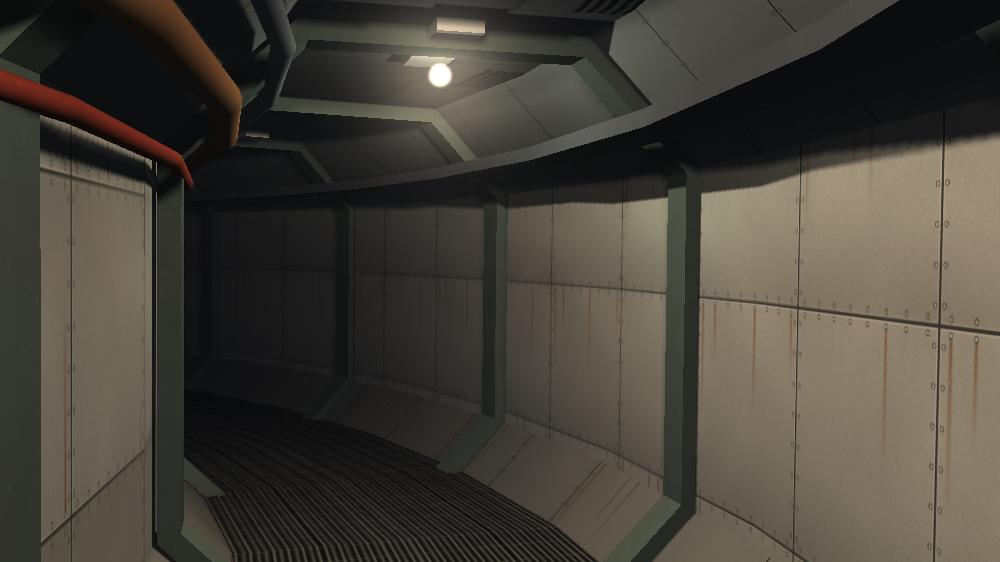
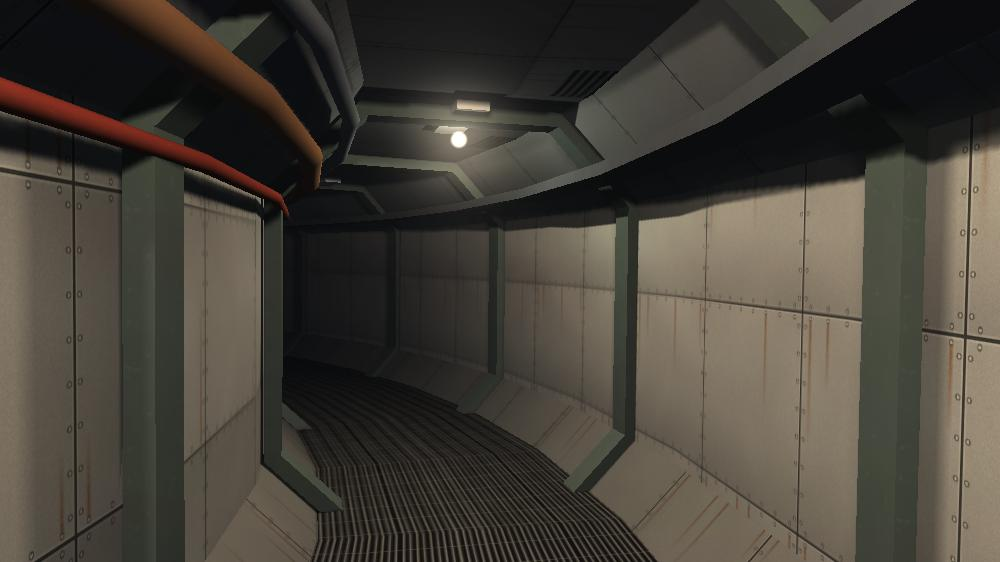
Tilt the desks of the consoles towards the operator, widen and choose the field of view, fix the z-fighting of the screens
The desks and their buttons were tilted towards the screen (wrong sign
of the rotation around Y). The field of view is now 72 degrees by
default, with presets in the Camera menu and the + / - keys (2 degrees,
30 to 120), kept when the window is resized; it moves the view plane
(Perspective.setDist()). The screens were in the plane of their frame or
case: they now stand 1 cm in front.
Test of the field of view, documentation images regenerated,
STARSHIP_INTERIOR.md and README updated.

diff --git a/aventura-demos/src/main/java/com/aventura/demo/ship/StarshipInterior.java b/aventura-demos/src/main/java/com/aventura/demo/ship/StarshipInterior.java
@@ -124,8 +124,8 @@ import com.aventura.view.SwingView;
  *
  * <h2>Menus</h2>
  * <ul>
- * <li>Camera: the camera, pause of the visit, reset, and the statistics (key I), with the rendering times of the last
- *     lap of the visit and the lights switched on.</li>
+ * <li>Camera: the camera, pause of the visit, reset, the field of view (presets, or keys + and -), and the statistics
+ *     (key I), with the rendering times of the last lap of the visit and the lights switched on.</li>
  * <li>Lights: the size of the light budget (1 to 6 lights), or all the lights on; the halo of the lights; the north
  *     door (key D).</li>
  * <li>Rendering: the rendering type.</li>
@@ -149,10 +149,22 @@ public class StarshipInterior {
 	/** The haze: the far end of a long corridor fades into the dark (visibility in meters, see TempleRuins). */
 	static final float HAZE_VISIBILITY = 45f;
 
-	/** Near and far planes of the view frustum. The near plane is close: in a doorway, the frame is 0.5 m away. */
-	static final float NEAR_DISTANCE = 0.05f;
+	/**
+	 * The view plane: VIEW_WIDTH wide at IMAGE_WIDTH pixels. With a frustum, it is also the near plane, close to the eye:
+	 * in a doorway, the frame is 0.5 m away. Its distance to the eye sets the field of view (see setFieldOfView()).
+	 */
+	static final float VIEW_WIDTH = 0.05f;
 	static final float FAR_DISTANCE = 300f;
 	static final int IMAGE_WIDTH = 1000;
+
+	/**
+	 * Horizontal field of view, in degrees: rather wide, as for a first person view (TempleRuins: 53 degrees). The Camera
+	 * menu offers the presets; the + and - keys change it by FIELD_OF_VIEW_STEP, between the minimum and the maximum.
+	 */
+	static final float DEFAULT_FIELD_OF_VIEW = 72;
+	static final float[] FIELD_OF_VIEW_PRESETS = { 50, 60, 72, 85, 100 };
+	static final float FIELD_OF_VIEW_STEP = 2;
+	static final float MIN_FIELD_OF_VIEW = 30, MAX_FIELD_OF_VIEW = 120;
 
 	/** Where the walk starts: in the south corridor, near the south junction, looking east. */
 	static final Vector4 WALK_START = new Vector4(3f, -Ship.LOOP_HALF_WIDTH, ShipTour.EYE_HEIGHT, 1);
@@ -227,6 +239,9 @@ public class StarshipInterior {
 	int lightsOn;
 
 	CameraMode cameraMode = CameraMode.WALK;
+	float fieldOfView = DEFAULT_FIELD_OF_VIEW;
+	Map<Float, JRadioButtonMenuItem> fieldOfViewItems = new java.util.LinkedHashMap<Float, JRadioButtonMenuItem>();
+	ButtonGroup fieldOfViewGroup = new ButtonGroup();
 	Vector4 lookTarget; // The point the camera looks at: the light budget prefers the lights in front of the camera
 
 	/** Walk: position of the eye, and direction of the look (yaw around Z from the X axis, pitch above the horizontal). */
@@ -347,15 +362,18 @@ public class StarshipInterior {
 	// ***** 4. The contexts
 	// ****************************************************************************************************************
 
-	/** A perspective projection, a horizontal field of view of 53 degrees, an image IMAGE_WIDTH pixels wide (see TempleRuins). */
+	/**
+	 * A perspective projection, a horizontal field of view of DEFAULT_FIELD_OF_VIEW, an image IMAGE_WIDTH pixels wide
+	 * (see TempleRuins).
+	 */
 	public static PerspectiveContext createPerspectiveContext() {
 		return createPerspectiveContext(IMAGE_WIDTH);
 	}
 
 	public static PerspectiveContext createPerspectiveContext(int imageWidth) {
-		float viewWidth = NEAR_DISTANCE, viewHeight = NEAR_DISTANCE * 9 / 16;
-		PerspectiveContext pContext = new PerspectiveContext(viewWidth, viewHeight, NEAR_DISTANCE, FAR_DISTANCE, PerspectiveType.FRUSTUM,
-				Math.round(imageWidth / viewWidth));
+		float viewWidth = VIEW_WIDTH, viewHeight = VIEW_WIDTH * 9 / 16;
+		PerspectiveContext pContext = new PerspectiveContext(viewWidth, viewHeight, viewDistance(viewWidth, DEFAULT_FIELD_OF_VIEW), FAR_DISTANCE,
+				PerspectiveType.FRUSTUM, Math.round(imageWidth / viewWidth));
 		pContext.setResizeMode(PerspectiveContext.ResizeMode.KEEP_SCALE);
 		return pContext;
 	}
@@ -369,6 +387,40 @@ public class StarshipInterior {
 		rContext.setAtmosphere(true);
 		rContext.setLightGlow(true);
 		return rContext;
+	}
+
+	/**
+	 * The distance from the eye at which a view plane of the given width sees the given horizontal field of view: the
+	 * plane and the eye make an isosceles triangle, of half-angle fieldOfView / 2, so tan(fieldOfView / 2) = (width / 2)
+	 * / distance. The nearer the plane, the wider the view.
+	 */
+	static float viewDistance(float viewWidth, float fieldOfViewDegrees) {
+		return viewWidth / 2 / (float) Math.tan(Math.toRadians(fieldOfViewDegrees) / 2);
+	}
+
+	/**
+	 * Changes the field of view: the view plane keeps its width (its pixels, see PerspectiveContext.ResizeMode.KEEP_SCALE),
+	 * and is moved nearer to the eye or farther from it (Perspective.setDist()). The projection follows.
+	 */
+	public void setFieldOfView(float degrees) {
+		fieldOfView = clamp(degrees, MIN_FIELD_OF_VIEW, MAX_FIELD_OF_VIEW);
+		applyFieldOfView();
+	}
+
+	public float getFieldOfView() {
+		return fieldOfView;
+	}
+
+	/**
+	 * Places the view plane for the current field of view. Called before each image: when the window is resized, the
+	 * width of the view plane changes with it (the RenderEngine resizes the PerspectiveContext at the start of the image),
+	 * and the field of view is kept by moving the plane.
+	 */
+	private void applyFieldOfView() {
+		int pixels = guiView != null ? guiView.getViewWidth() : pContext.getPixelWidth();
+		float viewWidth = (float) pixels / pContext.getPPU(); // The width the view plane will have for this image
+		float distance = viewDistance(viewWidth, fieldOfView);
+		if (distance != pContext.getPerspective().getDist()) pContext.getPerspective().setDist(distance);
 	}
 
 	// ****************************************************************************************************************
@@ -461,10 +513,19 @@ public class StarshipInterior {
 		bindKey(root, KeyEvent.VK_DOWN, "backward", () -> dollyCamera(-1));
 		bindKey(root, KeyEvent.VK_LEFT, "turnLeft", () -> turnCamera(-0.12f, 0));
 		bindKey(root, KeyEvent.VK_RIGHT, "turnRight", () -> turnCamera(0.12f, 0));
+		// The field of view: + and -, typed (whatever the keyboard layout) or on the numeric keypad
+		bindKey(root, KeyStroke.getKeyStroke('+'), "wider", () -> changeFieldOfView(fieldOfView + FIELD_OF_VIEW_STEP));
+		bindKey(root, KeyStroke.getKeyStroke('-'), "narrower", () -> changeFieldOfView(fieldOfView - FIELD_OF_VIEW_STEP));
+		bindKey(root, KeyEvent.VK_ADD, "widerKeypad", () -> changeFieldOfView(fieldOfView + FIELD_OF_VIEW_STEP));
+		bindKey(root, KeyEvent.VK_SUBTRACT, "narrowerKeypad", () -> changeFieldOfView(fieldOfView - FIELD_OF_VIEW_STEP));
 	}
 
 	private static void bindKey(JComponent component, int keyCode, String name, Runnable action) {
-		component.getInputMap(JComponent.WHEN_IN_FOCUSED_WINDOW).put(KeyStroke.getKeyStroke(keyCode, 0), name);
+		bindKey(component, KeyStroke.getKeyStroke(keyCode, 0), name, action);
+	}
+
+	private static void bindKey(JComponent component, KeyStroke key, String name, Runnable action) {
+		component.getInputMap(JComponent.WHEN_IN_FOCUSED_WINDOW).put(key, name);
 		component.getActionMap().put(name, new AbstractAction() {
 			@Override
 			public void actionPerformed(ActionEvent e) {
@@ -504,6 +565,7 @@ public class StarshipInterior {
 	 * or when asked by the Lights menu). Every rendering of the application goes through here.
 	 */
 	void render() {
+		applyFieldOfView();
 		updateLights();
 		// The haze is for the long corridors: from above, 70 m away, it would hide the whole ship
 		rContext.setAtmosphere(atmosphere.isHaze() && cameraMode != CameraMode.PLAN);
@@ -513,8 +575,8 @@ public class StarshipInterior {
 		if (frame == null) return; // Without a window (tests)
 		long millis = Math.round(lastRenderNanos / 1e6);
 		String mode = cameraMode.label + (cameraMode == CameraMode.VISIT && tourPaused ? " (paused)" : "");
-		String title = String.format(Locale.ROOT, "%s - %s - %d ms per image (%.1f per second) - %d lights on", TITLE, mode, millis,
-				1e9 / Math.max(lastRenderNanos, 1), lightsOn);
+		String title = String.format(Locale.ROOT, "%s - %s, %.0f\u00b0 - %d ms per image (%.1f per second) - %d lights on", TITLE, mode, fieldOfView,
+				millis, 1e9 / Math.max(lastRenderNanos, 1), lightsOn);
 		if (cameraMode == CameraMode.VISIT && lapCount > 0) {
 			title += String.format(Locale.ROOT, " - lap %d: %.1f ms on average", lapCount, lastLapAverage);
 		}
@@ -546,8 +608,41 @@ public class StarshipInterior {
 		addMenuItem(menu, "Pause / resume the visit", KeyStroke.getKeyStroke(KeyEvent.VK_SPACE, 0), this::pauseTour);
 		addMenuItem(menu, "Reset camera", KeyStroke.getKeyStroke(KeyEvent.VK_R, 0), this::resetCamera);
 		menu.addSeparator();
+		menu.add(createFieldOfViewMenu());
+		menu.addSeparator();
 		menu.add(statistics.createMenuItem());
 		return menu;
+	}
+
+	/**
+	 * Field of view submenu: the presets (an exclusive choice), and a wider or narrower view by FIELD_OF_VIEW_STEP (keys
+	 * + and -, on the main keyboard or the numeric keypad). A value between two presets selects none of them.
+	 */
+	private JMenu createFieldOfViewMenu() {
+		JMenu menu = new JMenu("Field of view");
+		ButtonGroup group = fieldOfViewGroup;
+		for (float preset : FIELD_OF_VIEW_PRESETS) {
+			JRadioButtonMenuItem item = new JRadioButtonMenuItem(String.format(Locale.ROOT, "%.0f\u00b0%s", preset,
+					preset == DEFAULT_FIELD_OF_VIEW ? " (default)" : preset < 60 ? " (narrow)" : preset > 90 ? " (wide)" : ""), preset == fieldOfView);
+			item.addActionListener(e -> changeFieldOfView(preset));
+			group.add(item);
+			menu.add(item);
+			fieldOfViewItems.put(preset, item);
+		}
+		menu.addSeparator();
+		addMenuItem(menu, "Wider (+)", null, () -> changeFieldOfView(fieldOfView + FIELD_OF_VIEW_STEP));
+		addMenuItem(menu, "Narrower (-)", null, () -> changeFieldOfView(fieldOfView - FIELD_OF_VIEW_STEP));
+		return menu;
+	}
+
+	/** Sets the field of view, shows it in the menu and renders. */
+	private void changeFieldOfView(float degrees) {
+		setFieldOfView(degrees);
+		// The preset matching the new value is selected, or none (a ButtonGroup can be cleared)
+		JRadioButtonMenuItem item = fieldOfViewItems.get(fieldOfView);
+		if (item != null) item.setSelected(true);
+		else fieldOfViewGroup.clearSelection();
+		render();
 	}
 
 	private void addCameraItem(JMenu menu, ButtonGroup group, CameraMode mode, int keyCode) {
@@ -937,6 +1032,15 @@ public class StarshipInterior {
 	public void showPlan() {
 		cameraMode = CameraMode.PLAN;
 		updateCamera();
+	}
+
+	/**
+	 * For the tests and DocumentationImages: renders into the given view (an ImageView, without a window), of any size.
+	 * The field of view is kept.
+	 */
+	public void setView(GUIView view) {
+		guiView = view;
+		renderer.setView(view);
 	}
 
 	/** Renders an image with the current camera (the budget switches the lights first), without a window. */

diff --git a/aventura-demos/src/main/java/com/aventura/demo/ship/Console.java b/aventura-demos/src/main/java/com/aventura/demo/ship/Console.java
@@ -78,12 +78,13 @@ public class Console extends Element {
 		cabinet.setTransformation(new Translation(new Vector3(0, 0, HEIGHT / 2)));
 		addElement(cabinet);
 
-		// The desk: a thin Box tilted around the Y axis (towards the operator), on top of the cabinet
-		float tilt = (float) Math.toRadians(-22);
+		// The desk: a thin Box tilted around the Y axis, its front edge lower, towards the operator. A rotation by a
+		// positive angle around Y turns +X towards -Z: the front edge (+X) goes down
+		float tilt = (float) Math.toRadians(22);
 		Box desk = new Box(DEPTH * 0.85f, width, 0.05f, textures.paintedMetal, "desk");
 		desk.setColor(DESK_COLOR);
 		desk.setTransformation(new Rotation(tilt, Vector3.yAxis()));
-		desk.combineTransformation(new Translation(new Vector3(0.02f, 0, HEIGHT + 0.09f)));
+		desk.combineTransformation(new Translation(new Vector3(0.02f, 0, HEIGHT + 0.12f)));
 		addElement(desk);
 
 		// The buttons: small boxes in rows on the desk, tilted with it
@@ -97,7 +98,7 @@ public class Console extends Element {
 				float x = -0.12f + r * 0.14f, y = -width / 2 + (c + 0.5f) * width / columns;
 				button.setTransformation(new Translation(new Vector3(x, y, 0.035f)));
 				button.combineTransformation(new Rotation(tilt, Vector3.yAxis()));
-				button.combineTransformation(new Translation(new Vector3(0.02f, 0, HEIGHT + 0.09f)));
+				button.combineTransformation(new Translation(new Vector3(0.02f, 0, HEIGHT + 0.12f)));
 				buttons.addElement(button);
 			}
 		}
@@ -109,11 +110,13 @@ public class Console extends Element {
 		Box back = new Box(0.06f, screenWidth + 0.06f, screenHeight + 0.06f, textures.paintedMetal, "screen case");
 		back.setColor(DESK_COLOR);
 		display.addElement(back);
-		// The Panel is seen from +X: its axes are Y (along the bottom edge: seen from the front, it goes from left to right)
+		// The Panel is seen from +X, 1 cm in front of the case (in its plane, the two would fight in the Z-buffer): its
+		// axes are Y (along the bottom edge: seen from the front, it goes from left to right)
 		// and Z, and Y x Z = X
-		Panel face = new Panel("screen", new Vector4(0.031f, -screenWidth / 2, -screenHeight / 2, 1), Vector3.yAxis(), Vector3.zAxis(),
+		Panel face = new Panel("screen", new Vector4(0.04f, -screenWidth / 2, -screenHeight / 2, 1), Vector3.yAxis(), Vector3.zAxis(),
 				screenWidth, screenHeight, null, screen, 0); // Tile 0: the texture of the screen is stretched once over it
 		display.addElement(face);
+		// Leaning back: the opposite rotation, its top (+Z) turned towards -X
 		display.setTransformation(new Rotation((float) Math.toRadians(-12), Vector3.yAxis()));
 		display.combineTransformation(new Translation(new Vector3(-DEPTH / 2 + 0.05f, 0, HEIGHT + 0.2f + screenHeight / 2)));
 		addElement(display);

diff --git a/aventura-demos/src/main/java/com/aventura/demo/ship/ControlRoom.java b/aventura-demos/src/main/java/com/aventura/demo/ship/ControlRoom.java
@@ -64,6 +64,7 @@ public class ControlRoom extends Element {
 	public static final Color BEAM_COLOR = new Color(92, 104, 96);
 	public static final Color RING_COLOR = new Color(230, 236, 255);
 	public static final Color SCREEN_FRAME_COLOR = new Color(60, 64, 68);
+	static final float SCREEN_FRAME_DEPTH = 0.04f;
 
 	protected final Vector4 center;
 	protected final List<AirlockDoor> doors = new ArrayList<AirlockDoor>();
@@ -150,12 +151,15 @@ public class ControlRoom extends Element {
 		for (int side = -1; side <= 1; side += 2) {
 			Vector3 inward = new Vector3(-side, 0, 0);
 			Vector3 u = inward.cross(Vector3.zAxis()).times(-1); // Along the wall, so that u x Z points inwards
-			Vector4 corner = at(side * (half - 0.04f), 0, z).minus(u.times(width / 2));
+			// The screen stands 1 cm in front of its frame: in the same plane as the front of the frame, the two surfaces
+			// would fight for each pixel in the Z-buffer (z-fighting), and the screen would show lines of the frame
+			Vector4 corner = at(side * (half - SCREEN_FRAME_DEPTH - 0.01f), 0, z).minus(u.times(width / 2));
 			Panel screen = new Panel("wall screen", corner, u, Vector3.zAxis(), width, height, null, side > 0 ? textures.screenRadar : textures.screenGraphs, 0);
 			group.addElement(screen);
-			Box frame = new Box(0.05f, width + 0.12f, height + 0.12f, "screen frame");
+			// The frame: a Box against the wall, SCREEN_FRAME_DEPTH thick
+			Box frame = new Box(SCREEN_FRAME_DEPTH, width + 0.12f, height + 0.12f, "screen frame");
 			frame.setColor(SCREEN_FRAME_COLOR);
-			frame.setTransformation(new Translation(new Vector3(center.getX() + side * (half - 0.015f), center.getY(), z + height / 2)));
+			frame.setTransformation(new Translation(new Vector3(center.getX() + side * (half - SCREEN_FRAME_DEPTH / 2), center.getY(), z + height / 2)));
 			group.addElement(frame);
 		}
 		return group;

diff --git a/aventura-demos/src/test/java/com/aventura/demo/ship/TestStarshipInterior.java b/aventura-demos/src/test/java/com/aventura/demo/ship/TestStarshipInterior.java
@@ -34,6 +34,7 @@ import org.junit.BeforeClass;
 import org.junit.Test;
 
 import com.aventura.model.light.PointLight;
+import com.aventura.model.perspective.Perspective;
 import com.aventura.model.world.GeometryStatistics;
 import com.aventura.view.ImageView;
 
@@ -53,7 +54,7 @@ public class TestStarshipInterior {
 		demo = new StarshipInterior();
 		demo.createScene();
 		view = new ImageView(StarshipInterior.createPerspectiveContext(160));
-		demo.getRenderer().setView(view);
+		demo.setView(view);
 	}
 
 	@Test
@@ -114,6 +115,25 @@ public class TestStarshipInterior {
 		assertTrue("drawn again once the door moved", hubLight.getDrawnShadowMapFaces() > drawn);
 		door.setOpening(0);
 		demo.invalidateShadowsNear(door.getCenter());
+	}
+
+	@Test
+	public void testFieldOfView() {
+		System.out.println("***** Test StarshipInterior : the field of view *****");
+		assertEquals(StarshipInterior.DEFAULT_FIELD_OF_VIEW, demo.getFieldOfView(), 0);
+		for (float degrees : new float[] { 90, 50, StarshipInterior.DEFAULT_FIELD_OF_VIEW }) {
+			demo.setFieldOfView(degrees);
+			demo.showVisitAt(10);
+			demo.renderImage();
+			// The field of view of the image rendered, from its view plane: 2 atan((width / 2) / distance)
+			Perspective perspective = demo.pContext.getPerspective();
+			assertEquals("the view plane follows the image", 160, Math.round(perspective.getWidth() * demo.pContext.getPPU()));
+			float measured = (float) Math.toDegrees(2 * Math.atan(perspective.getWidth() / 2 / perspective.getDist()));
+			assertEquals(degrees, measured, 0.01f);
+		}
+		demo.setFieldOfView(500);
+		assertEquals("kept within its limits", StarshipInterior.MAX_FIELD_OF_VIEW, demo.getFieldOfView(), 0);
+		demo.setFieldOfView(StarshipInterior.DEFAULT_FIELD_OF_VIEW);
 	}
 
 	private int enabledLights() {

diff --git a/aventura-demos/src/test/java/com/aventura/demo/DocumentationImages.java b/aventura-demos/src/test/java/com/aventura/demo/DocumentationImages.java
@@ -504,7 +504,7 @@ public class DocumentationImages {
 			starshipDemo.createScene();
 		}
 		ImageView view = new ImageView(StarshipInterior.createPerspectiveContext(width));
-		starshipDemo.getRenderer().setView(view);
+		starshipDemo.setView(view);
 		starshipDemo.setNorthDoorOpening(0);
 		camera.accept(starshipDemo);
 		starshipDemo.renderImage();

diff --git a/docs/STARSHIP_INTERIOR.md b/docs/STARSHIP_INTERIOR.md
@@ -273,6 +273,14 @@ A rib is a `SectionFrame` between the outline of the corridor and the same outli
 inwards, the floor edge would rise by 10 cm: a step every 2.5 m. `ShipSections.insetAboveFloor()` slides the two points
 of the floor back down along their chamfer, and the ring is open (`setOpen()`): no rib across the floor.
 
+### Two surfaces in the same plane
+
+The screens are Panels with the texture of a screen, in front of a case or a frame (a `Box`). In the first version the
+large screens of the control room were exactly in the plane of the front of their frame: the two surfaces had the same
+depth at each pixel, and the Z-buffer kept one or the other depending on the rounding — lines of the frame across the
+screen (z-fighting). The small screens, 1 mm in front of their case, were spared at short range only. All the screens now
+stand 1 cm in front: well within the precision of the Z-buffer at the distances of the ship.
+
 ### Doors
 
 A door is a frame from the outline of the corridor to the smaller outline of the door, and two leaves (`Box`es) inside
@@ -359,9 +367,22 @@ door is closed.
 
 `R` puts the current camera back at its start.
 
+### Field of view
+
+The horizontal field of view is 72 degrees by default, wider than the 53 degrees of TempleRuins: a first person view
+needs to see the walls on both sides of a corridor. The Camera menu offers presets (50, 60, 72, 85 and 100 degrees),
+and the `+` and `-` keys (typed, or on the numeric keypad) change it by 2 degrees, from 30 to 120.
+
+With a frustum, the field of view is set by the width of the view plane and its distance to the eye:
+`tan(fieldOfView / 2) = (width / 2) / distance`. The width is the number of pixels divided by the pixels per unit
+(`ResizeMode.KEEP_SCALE`), so the demo changes the distance instead (`Perspective.setDist()`): the nearer the plane, the
+wider the view (`StarshipInterior.setFieldOfView()`). The view plane is also the near plane: between 30 and 120 degrees
+it stays between 9 cm and 1.5 cm from the eye, near enough for the doorways. Before each image the distance is
+computed again for the width of the window, so that resizing the window keeps the field of view.
+
 ### Menus
 
-- **Camera**: the camera, pause of the visit, reset, Statistics (`I`): the size of the scene and the work of the engine
+- **Camera**: the camera, pause of the visit, reset, the field of view (presets, `+` / `-`), Statistics (`I`): the size of the scene and the work of the engine
   (the `StatisticsWindow` shared by the demos), with the lights switched on for the last image, ranked, and the rendering
   times of the last lap of the visit.
 - **Lights**: the size of the budget (1, 2, 3, 4 or 6 lights), or all the lights on (42): the cost of the lights can be
@@ -369,7 +390,7 @@ door is closed.
 - **Rendering**: the rendering type.
 - **Effects**: textures, mipmapping, specular highlights, shadows, soft shadows, haze.
 
-The title of the window shows the camera, the time of the last image, the number of lights switched on and, during the
+The title of the window shows the camera and its field of view, the time of the last image, the number of lights switched on and, during the
 visit, the average time of the last lap.
 
 ---
@@ -379,7 +400,7 @@ visit, the average time of the last lap.
 | Test | What it checks |
 |---|---|
 | `TestShipGeometry` | Lines and arcs (points, directions, curvature, nearest point, lateral offset); the outlines turn counter-clockwise, the inset and the ribs above the floor; the walls of every corridor are seen from inside, the pipes from outside, the floors from above and the ceilings from below; where a visitor can walk; the visit is closed, without corners, and stays inside |
-| `TestStarshipInterior` | The scene; 3 lights switched on during the visit, all of them in the plan view; images rendered without a window; the north door opens and the lights near it draw their shadow map again |
+| `TestStarshipInterior` | The scene; 3 lights switched on during the visit, all of them in the plan view; images rendered without a window; the north door opens and the lights near it draw their shadow map again; the field of view of the images rendered |
 | `TestLightBudget` (in `com.aventura.demo`) | The nearest lights on, the others off; the fading; the lights in front first; all the lights on; the size of the budget |
 | `TestLightEnabled` (in the engine) | A light switched off: the same image as without it, no shadow map, no halo, the map kept when it is switched on again |
 

diff --git a/README.md b/README.md
@@ -518,7 +518,7 @@ All demos live in `com.aventura.demo` (`TempleRuins` and `StarshipInterior`, mad
 
 | Demo | What it shows | Interaction |
 | --- | --- | --- |
-| `StarshipInterior` | The inside of a spaceship, as in the science fiction films of the late seventies: a loop of metal corridors, straight and curved, a shortcut through a control room full of consoles, junctions, airlock doors open and closed, pipes everywhere. A scene lit by its own lights only: 42 point and spot lights with their shadows, of which only the 3 nearest to the camera are switched on (`Light.setEnabled()`, `LightBudget`), faded so that none pops in or out; one new shape swept along straight and curved paths (`SweptSection`) for the walls, the pipes and the cable trays; computed textures (plates, grating, stripes, screens); a door that opens (`D`) | Walk (`W`: drag to look around, wheel or `Up` / `Down` to walk, kept in the corridors), guided visit (`V`: looks ahead in the turns and at the points of interest, banks like an FPV drone; `Space` pauses it) and plan view (`P`: the whole ship from above, through its ceilings, all its lights on); `Lights` menu: the size of the light budget (1 to 6) or all the lights on, the halo of the lights, the north door; `Rendering` and `Effects` menus; `Camera` / `Statistics` (`I`), with the lights switched on and the times of the last lap of the visit |
+| `StarshipInterior` | The inside of a spaceship, as in the science fiction films of the late seventies: a loop of metal corridors, straight and curved, a shortcut through a control room full of consoles, junctions, airlock doors open and closed, pipes everywhere. A scene lit by its own lights only: 42 point and spot lights with their shadows, of which only the 3 nearest to the camera are switched on (`Light.setEnabled()`, `LightBudget`), faded so that none pops in or out; one new shape swept along straight and curved paths (`SweptSection`) for the walls, the pipes and the cable trays; computed textures (plates, grating, stripes, screens); a door that opens (`D`) | Walk (`W`: drag to look around, wheel or `Up` / `Down` to walk, kept in the corridors), guided visit (`V`: looks ahead in the turns and at the points of interest, banks like an FPV drone; `Space` pauses it) and plan view (`P`: the whole ship from above, through its ceilings, all its lights on); field of view of 72 degrees, presets in the `Camera` menu, `+` / `-` to change it; `Lights` menu: the size of the light budget (1 to 6) or all the lights on, the halo of the lights, the north door; `Rendering` and `Effects` menus; `Camera` / `Statistics` (`I`), with the lights switched on and the times of the last lap of the visit |
 
 <p align="center">
   <img src="docs/images/starship_bend.jpg" alt="StarshipInterior: the east bend of the corridors" width="400">
